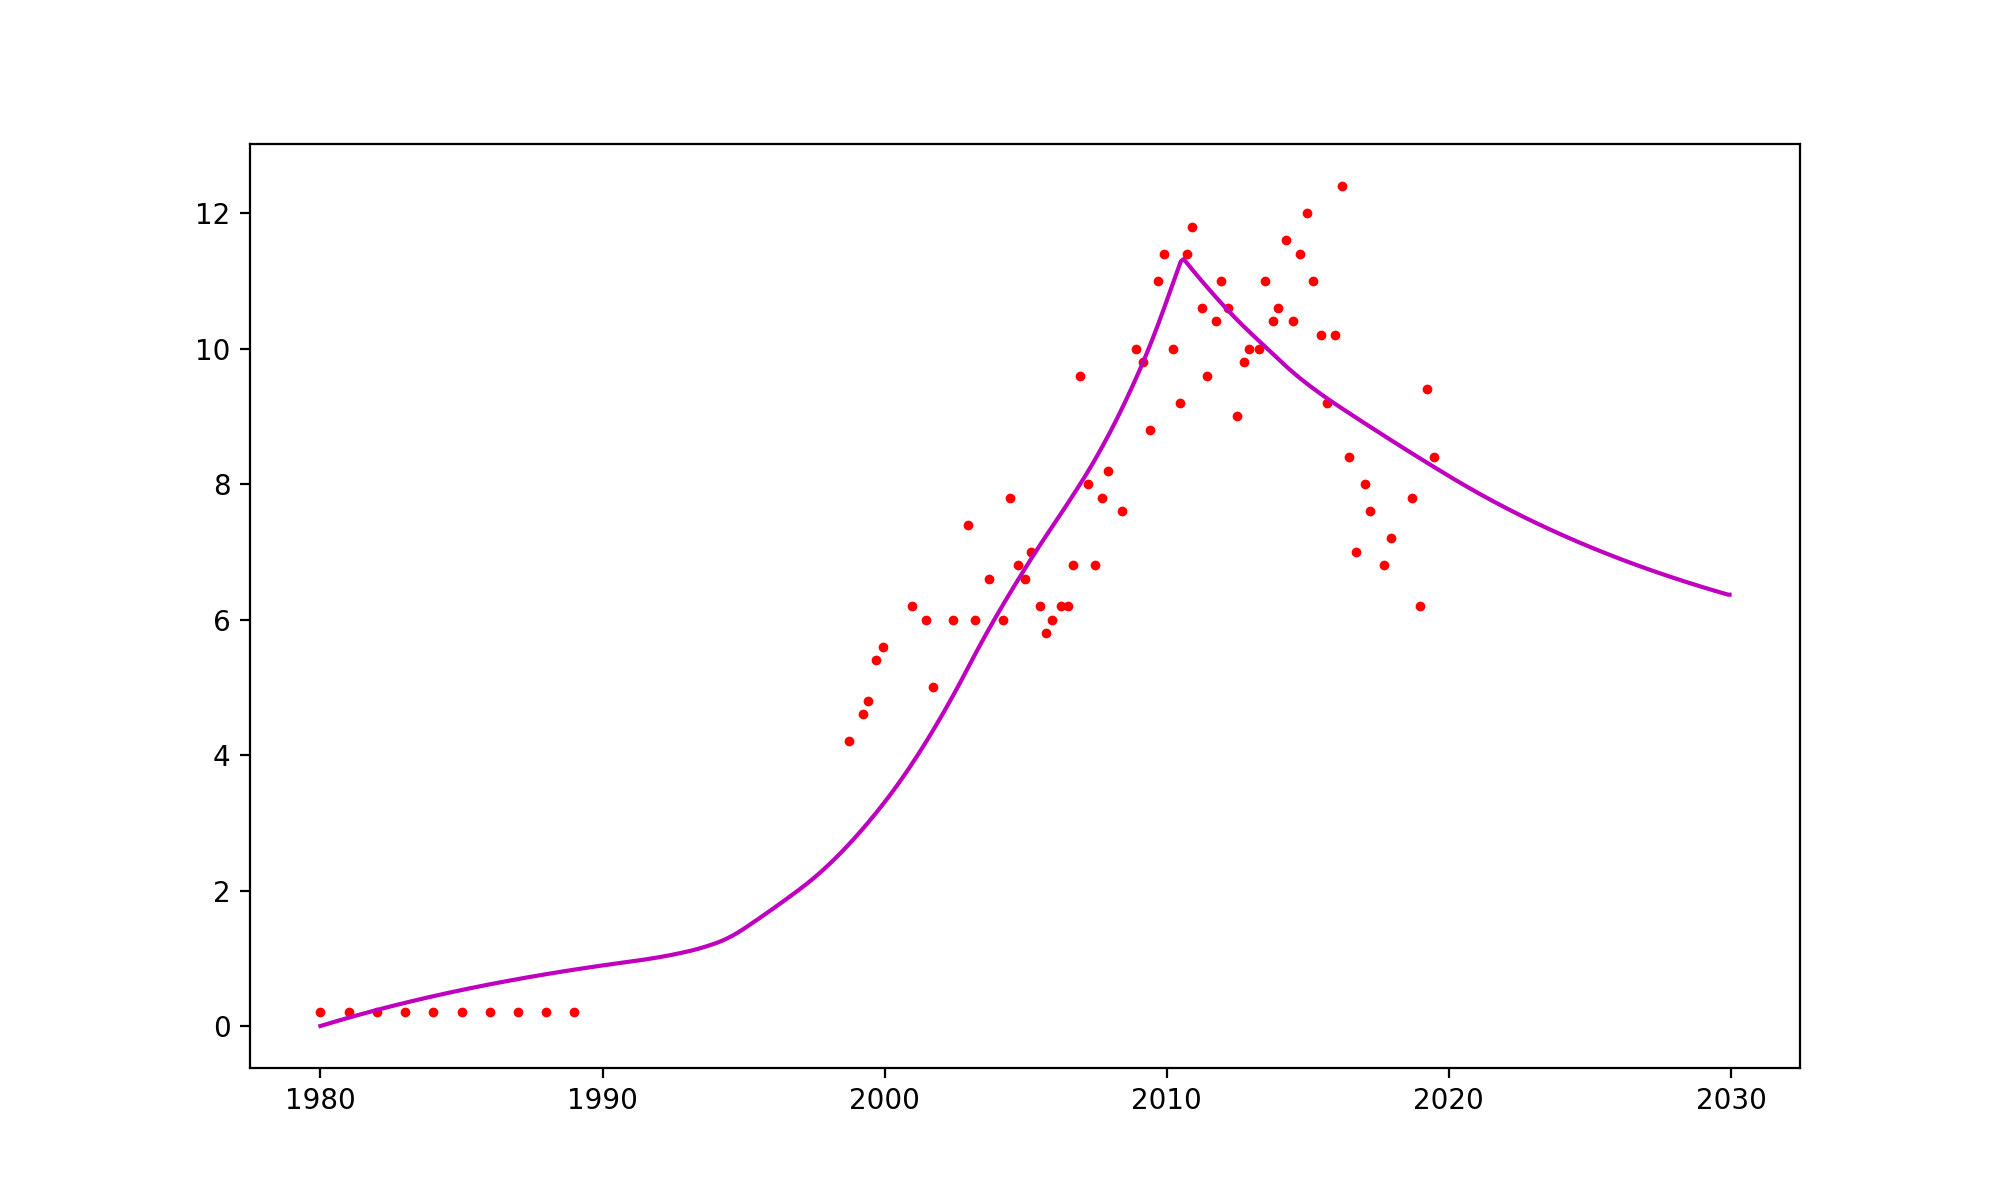
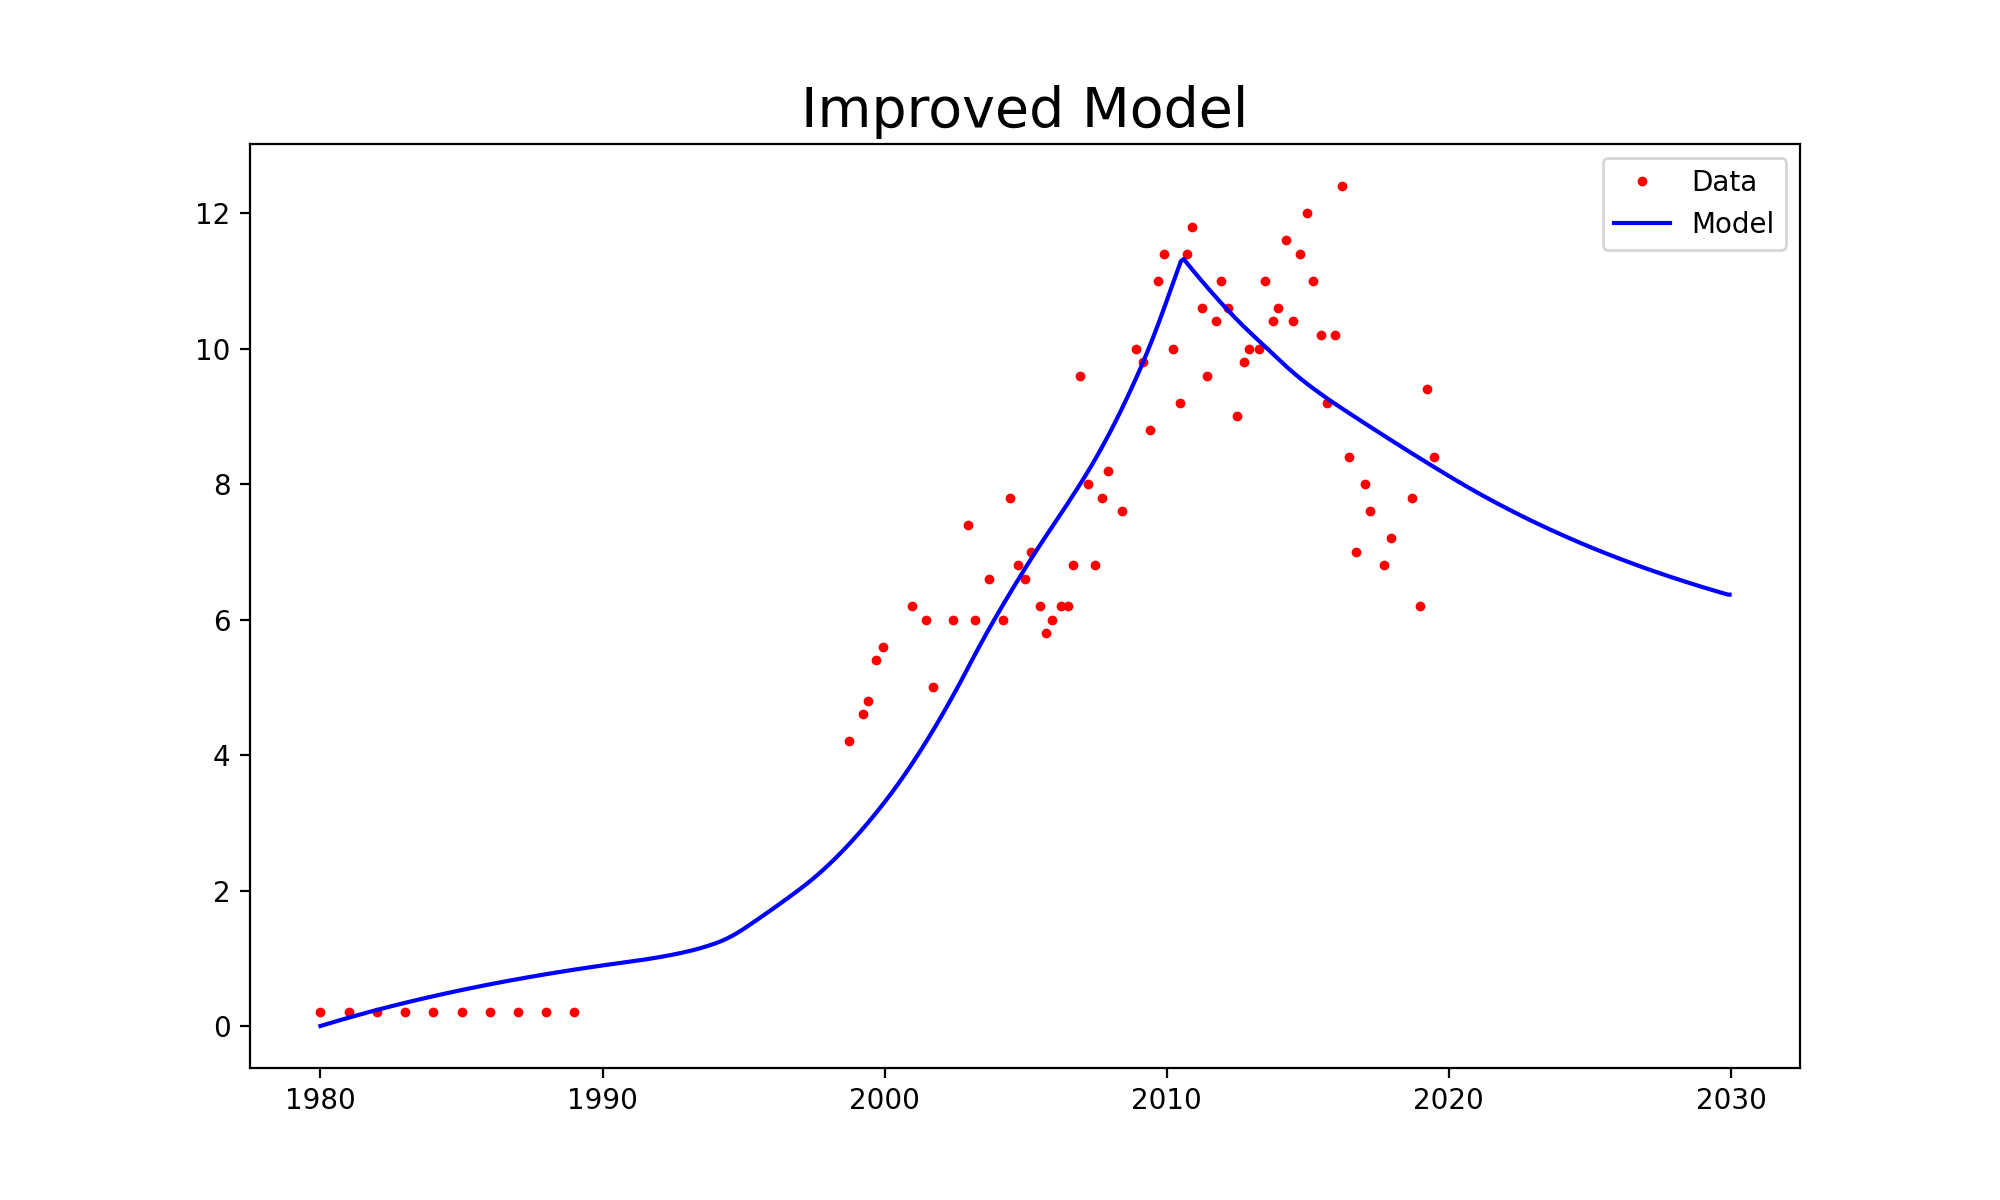
adding titles to plots and legends to some

diff --git a/plotting_functions.py b/plotting_functions.py
@@ -47,16 +47,18 @@ def initial_model():
     Saves the plot in file 'initial_model.png'
     '''
     p = posterior_pars_old()
-    t = np.arange(1980,2030,step=0.05)
+    t = np.arange(1980,2020,step=0.05)
     C = LPM_Model(t,*p)
 
 
     t0, c0 = np.genfromtxt('nl_n.csv', delimiter=',', skip_header=1).T
 
-    fig = plt.figure(figsize=(10,6))
+    fig = plt.figure(figsize=(20,10))
     ax = fig.add_subplot(111)
-    ax.plot(t0,c0, 'ro', label="data", markersize=2.5)
-    ax.plot(t, C, 'm-')
+    ax.plot(t0,c0, 'ro', label="Data", markersize=2.5)
+    ax.plot(t, C, 'b-', label="Model")
+    plt.title("Initial Model", fontsize=20)
+    ax.legend()
     #plt.show()
     fig.savefig('initial_model.png', dpi = 200)
 
@@ -77,8 +79,10 @@ def improved_model():
 
     fig = plt.figure(figsize=(10,6))
     ax = fig.add_subplot(111)
-    ax.plot(t0,c0, 'ro', label="data", markersize=2.5)
-    ax.plot(t, C, 'm-')
+    ax.plot(t0,c0, 'ro', label="Data", markersize=2.5)
+    ax.plot(t, C, 'b-', label="Model")
+    plt.title("Improved Model", fontsize=20)
+    ax.legend()
     #plt.show()
     fig.savefig('improved_model.png', dpi = 200)
 
@@ -106,32 +110,27 @@ def what_ifs():
     t_forecast = np.arange(2020,2030,step=0.05)
 
     v=0.3
-    fig = plt.figure(figsize=(10,6))
+    fig = plt.figure(figsize=(20,10))
     ax = fig.add_subplot(111)
-    ax.plot(t0,c0, 'ro', label="data", markersize=2.5)
+    ax.plot(t0,c0, 'ro', label="Data", markersize=2.5)
     # ax.errorbar(t0,c0,yerr=v,fmt='ro', label='data', markersize=2.2)
 
     #ax.plot(t, LPM_Model_forecast(t, b1, alpha, bc, tau, 0), 'k-', label='Forecast best-fit', alpha=0.5)
 
     ax.plot(t_forecast, LPM_Model_forecast(t_forecast, b1, alpha, bc, tau, 0.0), 'm-')
 
-    ax.plot(t_forecast, LPM_Model_forecast(t_forecast, b1, alpha, bc, tau, 0.01), 'g-')
+    ax.plot(t_forecast, LPM_Model_forecast(t_forecast, b1, alpha, bc, tau, 0.05), 'g-')
 
-    ax.plot(t_forecast, LPM_Model_forecast(t_forecast, b1, alpha, bc, tau, 0.05), 'b-')
+    ax.plot(t_forecast, LPM_Model_forecast(t_forecast, b1, alpha, bc, tau, 0.1), 'b-')
 
+    ax.plot(t_forecast, LPM_Model_forecast(t_forecast, b1, alpha, bc, tau, 0.15), 'r-')
 
-    ax.plot(t_forecast, LPM_Model_forecast(t_forecast, b1, alpha, bc, tau, 0.1), 'r-')
-
-    # for pi in ps:
-    #     ax.plot(t_pos, LPM_Model(t_pos, *pi), 'k-', alpha=0.5, lw=0.5)
-
-    #ax.plot(t, LPM_Model(t, *p), 'k-', label='Best fit', alpha=1)
-    ax.plot(t, LPM_Model_forecast(t, b1, alpha, bc, tau, 0), 'k-', label='Best-fit')
-    #ax.plot([], [], lw=0.5, label='posterior samples')
+    ax.plot(t, LPM_Model_forecast(t, b1, alpha, bc, tau, 0), 'k-', label='Best-fit model')
     ax.plot([], [], 'm-', label='$dP_{mar}$ = 0.0 MPa')
-    ax.plot([], [], 'g-', label='$dP_{mar}$ = 0.01 MPa')
-    ax.plot([], [], 'b-', label='$dP_{mar}$ = 0.05 MPa')
-    ax.plot([], [], 'r-', label='$dP_{mar}$ = 0.1 MPa')
+    ax.plot([], [], 'g-', label='$dP_{mar}$ = 0.05 MPa')
+    ax.plot([], [], 'b-', label='$dP_{mar}$ = 0.10 MPa')
+    ax.plot([], [], 'r-', label='$dP_{mar}$ = 0.15 MPa')
+    plt.title("Future scenarios for potential values of $dP_{mar}", fontsize=20)
     ax.legend(loc=2)
     #plt.show()
     plt.savefig("what_if_scenarios.png")
@@ -159,13 +158,14 @@ def without_acs():
     t_forecast = np.arange(2020,2030,step=0.05)
 
     v=0.3
-    fig = plt.figure(figsize=(10,6))
+    fig = plt.figure(figsize=(20,10))
     ax = fig.add_subplot(111)
-    ax.plot(t0,c0, 'ro', label="data", markersize=2.5)
+    ax.plot(t0,c0, 'ro', label="Data", markersize=2.5)
 
     ax.plot(t, LPM_Model(t, *p), 'k-', label='Forecast with ACS', alpha=0.5)
     ax.plot(t, LPM_Model(t, b1, 1, bc, tau), 'g-', label='Forecast without ACS ', alpha=0.5)
     ax.legend(loc=2)
+    plt.title("Improved model compared to model without ACS parameter", fontsize=20)
     #plt.show()
     fig.savefig('without_acs.png', dpi = 200)
 
@@ -191,7 +191,7 @@ def what_ifs_uncertainty():
     t_forecast = np.arange(2020,2030,step=0.05)
 
     v=0.3
-    fig = plt.figure(figsize=(10,6))
+    fig = plt.figure(figsize=(20,10))
     ax = fig.add_subplot(111)
     #ax.plot(t0,c0, 'ro', label="data", markersize=2.5)
 
@@ -211,17 +211,15 @@ def what_ifs_uncertainty():
     for pi in range(0,ps.shape[0]):
         ax.plot(t_pos, LPM_Model_forecast(t_pos, ps[pi][0], ps[pi][1], ps[pi][2], ps[pi][3],0), 'k-', lw=0.3)
 
-    ax.errorbar(t0,c0,yerr=v,fmt='ro', label='data', markersize=2.5)
+    ax.errorbar(t0,c0,yerr=v,fmt='ro', label='Data', markersize=2.5)
 
-    # #effects of acs
-    #ax.plot(t, LPM_Model(t, b1,alpha,bc,tau), 'b-', label='Best fit', alpha=1)
-    #ax.plot(t, LPM_Model(t, b1, alpha, bc, tau), 'k-', label='Forecast Best-fit')
     ax.plot([], [], 'k-', label='posterior samples')
     ax.plot([], [], 'm-', label='$dP_{mar}$ = 0.0 MPa')
     ax.plot([], [], 'g-', label='$dP_{mar}$ = 0.05 MPa')
-    ax.plot([], [], 'b-', label='$dP_{mar}$ = 0.1 MPa')
+    ax.plot([], [], 'b-', label='$dP_{mar}$ = 0.10 MPa')
     ax.plot([], [], 'r-', label='$dP_{mar}$ = 0.15 MPa')
     ax.legend(loc=2)
+    plt.title("Potential effects caused by different values of dP_{mar}$", fontsize=20)
     #plt.show()
     plt.savefig("scenario_forecasts.png")
 
@@ -245,9 +243,9 @@ def without_acs_uncertainty():
     t_forecast = np.arange(2020,2030,step=0.05)
 
     v=0.3
-    fig = plt.figure(figsize=(10,6))
+    fig = plt.figure(figsize=(20,10))
     ax = fig.add_subplot(111)
-    ax.plot(t0,c0, 'ro', label="data", markersize=2.5)
+    ax.plot(t0,c0, 'ro', label="Data", markersize=2.5)
 
     for pi in range(0,ps.shape[0]):
         ax.plot(t_pos, LPM_Model_forecast(t_pos, ps[pi][0], 1, ps[pi][2], ps[pi][3],0), 'g-', lw=0.3)
@@ -259,7 +257,6 @@ def without_acs_uncertainty():
     ax.plot([],[], 'k-', label = 'With ACS')
     ax.plot([],[], 'g-', label = 'Without ACS')
     ax.legend()
-    #ax.plot(t, LPM_Model(t, *p), 'k-', label='Forecast best-fit', alpha=0.5)
-    #ax.plot(t, LPM_Model(t, b1, 1, bc, tau), 'g-', label='without ACS ', alpha=0.5)
+    plt.title("Uncertainty caused by lack of alpha parameter", fontsize=20)
     #plt.show()
     fig.savefig('without_acs_uncertainty.png', dpi = 200)
